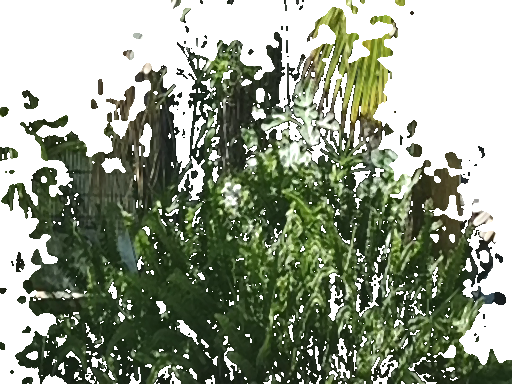
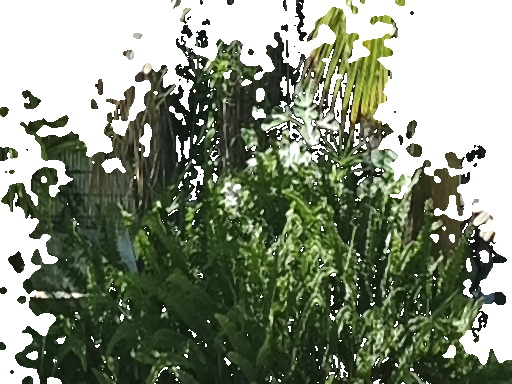
Plantas del jardín más frondosas
Cada mata tiene ahora un núcleo abultado con el follaje de la foto y unas
8 hojas recortadas a distintos ángulos, inclinaciones y tamaños (antes 3
láminas en cruz). Menos huecos en el recorte del follaje. Todas las matas
de un tipo se funden en una sola malla para no penalizar el rendimiento.

Claude-Session: https://claude.ai/code/session_01FqTSGykRwARfxfAy8epzhp

diff --git a/index.html b/index.html
@@ -441,37 +441,82 @@ const palmSpots = [
 ];
 const palms = palmSpots.map(p => palm(...p));
 
-// Plantas del jardín: tarjetas cruzadas con follaje recortado de la foto
+// Plantas del jardín: matas frondosas con follaje recortado de la foto.
+// Cada mata = núcleo abultado con la foto del follaje + ~8 hojas recortadas a distintos ángulos.
+// Todas las matas de un mismo tipo se funden en una sola malla (pocas llamadas de dibujo en el móvil).
 const plantTex = ['assets/planta_helecho.png', 'assets/planta_cica.png', 'assets/planta_arbusto.png'].map(url => {
   const t = loader.load(url); t.colorSpace = THREE.SRGBColorSpace; t.anisotropy = 8; return t;
 });
-const plantMats = plantTex.map(map => new THREE.MeshStandardMaterial({ map, alphaTest: 0.5, side: THREE.DoubleSide, roughness: 0.9 }));
+const plantMats = plantTex.map(map => new THREE.MeshStandardMaterial({ map, alphaTest: 0.45, side: THREE.DoubleSide, roughness: 0.9 }));
+const coreMats = plantTex.map(map => new THREE.MeshStandardMaterial({ map, color: 0xb8c4a8, roughness: 1 }));
 const plantDepth = plantTex.map(map => depthMat(map));
-const plantGeo = new THREE.PlaneGeometry(1, 0.75); plantGeo.translate(0, 0.375, 0);
-function plant(x, z, size, kind) {
-  const g = new THREE.Group();
-  const cards = 3;
-  for (let i = 0; i < cards; i++) {
-    const m = new THREE.Mesh(plantGeo, plantMats[kind]);
-    m.customDepthMaterial = plantDepth[kind];
-    m.rotation.y = (i / cards) * Math.PI + Math.random() * 0.3;
-    m.castShadow = true; m.receiveShadow = true;
-    g.add(m);
+const cardGeo = new THREE.PlaneGeometry(1, 0.75, 2, 2); cardGeo.translate(0, 0.375, 0);
+const coreGeo = (() => {
+  const g = new THREE.IcosahedronGeometry(0.5, 2);
+  const p = g.attributes.position, v = new THREE.Vector3();
+  for (let i = 0; i < p.count; i++) {
+    v.fromBufferAttribute(p, i);
+    const n = 1 + 0.16 * Math.sin(v.x * 11 + 2) * Math.sin(v.z * 9) + 0.1 * Math.sin(v.y * 15 + v.x * 7);
+    p.setXYZ(i, v.x * n, Math.max(-0.05, v.y * n * 0.75), v.z * n);
   }
-  g.scale.setScalar(size);
-  g.position.set(x, 0, z);
-  g.rotation.y = Math.random() * Math.PI;
-  scene.add(g);
+  g.computeVertexNormals();
+  return g;
+})();
+function mergeGeos(parts) {
+  const out = { position: [], normal: [], uv: [] };
+  for (const [geo, m] of parts) {
+    let g = geo.clone().applyMatrix4(m);
+    if (g.index) g = g.toNonIndexed();
+    for (const k in out) out[k].push(g.attributes[k].array);
+  }
+  const merged = new THREE.BufferGeometry();
+  for (const k in out) {
+    const len = out[k].reduce((n, a) => n + a.length, 0), arr = new Float32Array(len);
+    let o = 0; for (const a of out[k]) { arr.set(a, o); o += a.length; }
+    merged.setAttribute(k, new THREE.BufferAttribute(arr, k === 'uv' ? 2 : 3));
+  }
+  return merged;
 }
-// fuera de la piscina y del borde de arena, sin pisar las palmeras
-for (let placed = 0, tries = 0; placed < 46 && tries < 2000; tries++) {
+const plantParts = [[], [], []], coreParts = [[], [], []];
+const _m = new THREE.Matrix4(), _q = new THREE.Quaternion(), _e = new THREE.Euler(), _v = new THREE.Vector3(), _s = new THREE.Vector3();
+function plant(x, z, size, kind) {
+  const base = Math.random() * Math.PI;
+  // núcleo: rellena el centro para que no se vea vacío
+  _e.set(0, base, 0); _q.setFromEuler(_e);
+  _m.compose(_v.set(x, size * 0.12, z), _q, _s.set(size * 0.9, size * 0.7, size * 0.9));
+  coreParts[kind].push([coreGeo, _m.clone()]);
+  // hojas: anillo exterior inclinado hacia fuera + algunas centrales más altas
+  const cards = 8;
+  for (let i = 0; i < cards; i++) {
+    const outer = i < 6;
+    const ang = base + (i / cards) * Math.PI * 2 + Math.random() * 0.4;
+    const off = outer ? size * (0.12 + Math.random() * 0.12) : size * 0.04;
+    const sc = size * (outer ? 0.75 + Math.random() * 0.3 : 0.95 + Math.random() * 0.25);
+    _e.set(outer ? -(0.25 + Math.random() * 0.35) : (Math.random() - 0.5) * 0.2, ang, (Math.random() - 0.5) * 0.25, 'YXZ');
+    _q.setFromEuler(_e);
+    // la hoja mira hacia fuera y se separa un poco del centro
+    _m.compose(_v.set(x + Math.sin(ang) * off, -0.02, z + Math.cos(ang) * off), _q, _s.set(sc, sc * (0.85 + Math.random() * 0.3), sc));
+    plantParts[kind].push([cardGeo, _m.clone()]);
+  }
+}
+// fuera de la piscina y del borde de arena, sin pisar las palmeras ni el jacuzzi
+for (let placed = 0, tries = 0; placed < 60 && tries < 3000; tries++) {
   const a = Math.random() * Math.PI * 2, r = 14 + Math.random() * 26;
   const x = Math.cos(a) * r * 1.15, z = Math.sin(a) * r * 0.95;
   if (Math.hypot(x, z) > 43 || poolT(x, z) < 1.45) continue;
   if (Math.hypot(x - JAC.x, z - JAC.z) < JAC.rOut + 1.5) continue;
   if (palmSpots.some(p => Math.hypot(x - p[0], z - p[1]) < 1.6)) continue;
-  plant(x, z, 3 + Math.random() * 3.2, Math.floor(Math.random() * 3));
+  plant(x, z, 2.6 + Math.random() * 2.8, Math.floor(Math.random() * 3));
   placed++;
+}
+for (let k = 0; k < 3; k++) {
+  if (!plantParts[k].length) continue;
+  const cards = new THREE.Mesh(mergeGeos(plantParts[k]), plantMats[k]);
+  cards.customDepthMaterial = plantDepth[k];
+  cards.castShadow = cards.receiveShadow = true;
+  const core = new THREE.Mesh(mergeGeos(coreParts[k]), coreMats[k]);
+  core.castShadow = core.receiveShadow = true;
+  scene.add(cards, core);
 }
 
 // Focos de la piscina (como en la foto)

diff --git a/tools/make_assets.py b/tools/make_assets.py
@@ -144,7 +144,7 @@ def plant_card(box, seed, gain, name):
     img = crop_g(*box).resize((512, 384), Image.LANCZOS)
     c = np.asarray(img).astype(np.float32)
     lum = c.mean(2)
-    holes = lum > np.percentile(lum, 18)        # huecos donde el follaje es más oscuro
+    holes = lum > np.percentile(lum, 8)         # pocos huecos: solo donde el follaje es más oscuro
     alpha = (bush_mask(512, 384, seed) & holes) * 255
     c = np.clip(c * gain, 0, 255)               # están en sombra: se aclaran un poco
     out = Image.fromarray(np.dstack([c, alpha]).astype(np.uint8), "RGBA")

diff --git a/README.md b/README.md
@@ -12,7 +12,7 @@ Móvil: joystick + botón de impulso; arrastra para girar la cámara y pellizca 
   - `arena_fondo.jpg`: recorte real de la arena sumergida, usado como fondo de la piscina.
   - `arena_borde.jpg`: el grano de la arena con el color medido en el borde de la foto.
   - `cesped_foto.jpg`: franjas del césped al sol de la foto, apiladas para formar una textura continua.
-  - `planta_helecho.png`, `planta_cica.png`, `planta_arbusto.png`: follaje de la foto con silueta de mata, usado en las plantas del jardín.
+  - `planta_helecho.png`, `planta_cica.png`, `planta_arbusto.png`: follaje de la foto con silueta de mata. Cada planta del jardín es un núcleo abultado con ese follaje más unas 8 hojas recortadas a distintos ángulos.
   - `palma_abanico.png`, `palma_hoja.png`, `palma_tronco.jpg`: una hoja de abanico, una hoja de datilera (enderezada) y el tronco con escamas, recortados de la foto con el cielo eliminado. Para más nitidez se pasa la foto a resolución completa como segundo argumento.
 - `tools/make_jacuzzi_assets.py` saca las texturas del jacuzzi de dos fotos del jacuzzi real (no incluidas en el repositorio porque salen personas; solo se recortan zonas sin nadie):
   - `jac_muro.jpg`: muro exterior de ladrillos colocados de pie.
